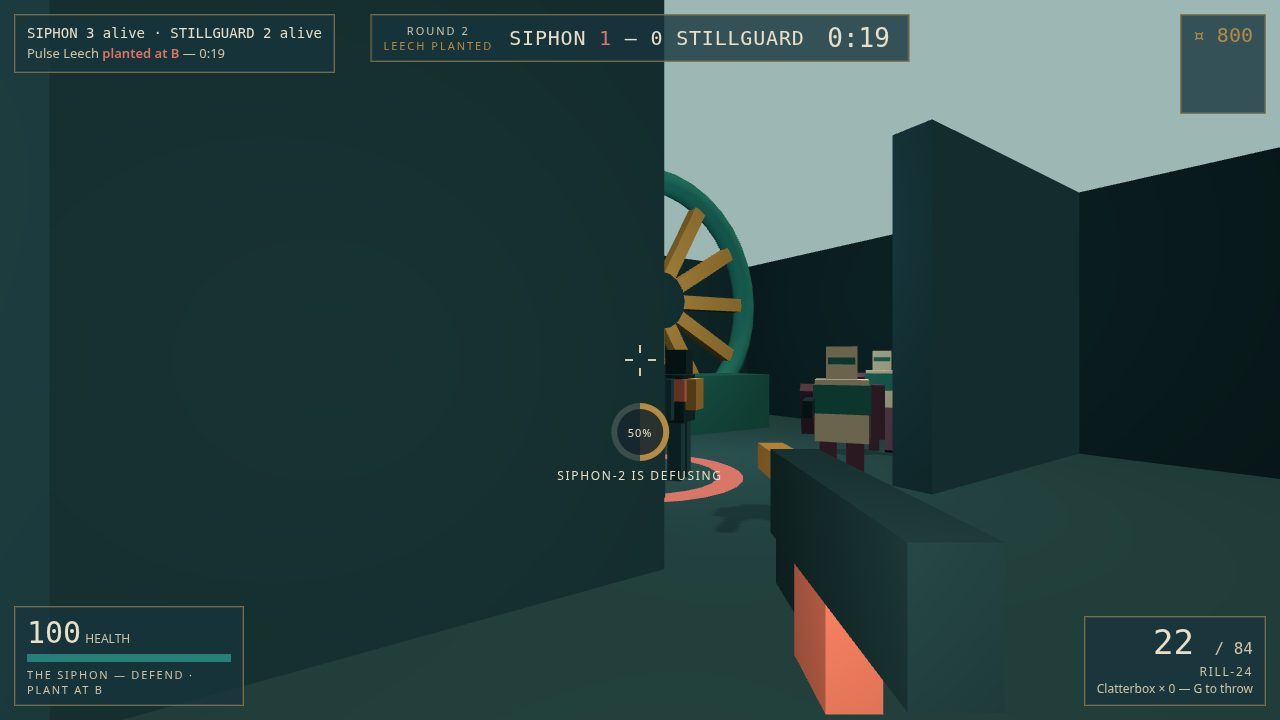
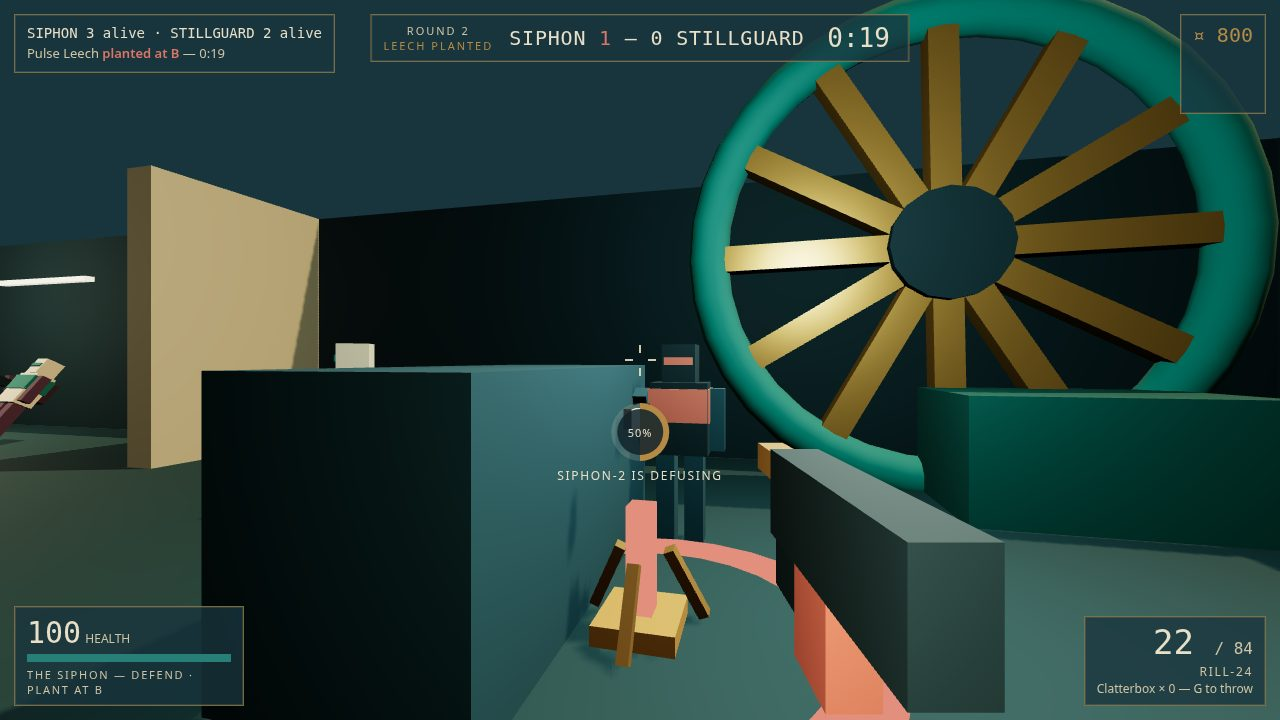
Polish: lit bathhouse mood (ACES, warm practicals, shadows), Pulse Leech visible while planting, restaged plant and retake captures

diff --git a/game/src/main.js b/game/src/main.js
@@ -26,29 +26,39 @@ renderer.setPixelRatio(shot ? 1 : Math.min(window.devicePixelRatio, 1.75));
 renderer.setSize(window.innerWidth, window.innerHeight);
 renderer.shadowMap.enabled = true;
 renderer.shadowMap.type = THREE.PCFSoftShadowMap;
+renderer.toneMapping = THREE.ACESFilmicToneMapping;
+renderer.toneMappingExposure = 1.12;
 document.getElementById('game').appendChild(renderer.domElement);
 
 const scene = new THREE.Scene();
-scene.background = new THREE.Color(0x9db8b4);
-scene.fog = new THREE.Fog(0x9db8b4, 30, 85);
+scene.background = new THREE.Color(PALETTE.petrol);
+scene.fog = new THREE.Fog(PALETTE.petrol, 45, 120);
 const camera = new THREE.PerspectiveCamera(73, window.innerWidth / window.innerHeight, 0.05, 160);
 scene.add(camera);
 const vmLight = new THREE.PointLight(0xfff1cf, 2.6, 4.5, 1.4); // viewmodel fill light
 camera.add(vmLight);
 
-const hemi = new THREE.HemisphereLight(0xfff1cf, 0x27505e, 1.1);
+const hemi = new THREE.HemisphereLight(0xffe9c4, 0x1c3a44, 0.5);
 scene.add(hemi);
-const sun = new THREE.DirectionalLight(0xfff3d0, 1.6);
-sun.position.set(14, 26, 10);
+const sun = new THREE.DirectionalLight(0xffdfae, 2.4);
+sun.position.set(18, 30, -6);
 sun.castShadow = true;
 sun.shadow.mapSize.set(2048, 2048);
-sun.shadow.camera.left = -30; sun.shadow.camera.right = 30;
-sun.shadow.camera.top = 30; sun.shadow.camera.bottom = -30;
-sun.shadow.camera.far = 70;
+sun.shadow.camera.left = -34; sun.shadow.camera.right = 34;
+sun.shadow.camera.top = 34; sun.shadow.camera.bottom = -34;
+sun.shadow.camera.far = 100;
+sun.shadow.bias = -0.0004;
+sun.shadow.normalBias = 0.02;
 scene.add(sun);
-for (const [x, z, c] of [[0, 16, 0xfff1cf], [0, -16, 0xfff1cf], [-17, -15, 0xffd9a0], [18, -15, 0xcfe8dd]]) {
-  const p = new THREE.PointLight(c, 18, 16, 1.6);
-  p.position.set(x, 3.4, z);
+// Practicals: warm pools of light at the vestibule, the office and both sites,
+// plus the chandelier's glow over the basin.
+for (const [x, y, z, c, i, d] of [
+  [0, 3.4, 16, 0xfff1cf, 30, 20], [0, 3.4, -16, 0xfff1cf, 30, 20],
+  [-17, 3.4, -15, 0xffd9a0, 30, 18], [18, 3.4, -15, 0xcfe8dd, 30, 18],
+  [0, 5.2, -1, 0xffd9a0, 26, 18],
+]) {
+  const p = new THREE.PointLight(c, i, d, 1.6);
+  p.position.set(x, y, z);
   scene.add(p);
 }
 
@@ -365,7 +375,7 @@ function stageShot(n) {
     player.groundY = -0.6;
     place(allies[0], -9.2, 1.5, -1.2);
     place(allies[1], -1.8, 0.8, -0.7);
-    place(enemies[0], 5.2, 0.6, 2.6);
+    place(enemies[0], 3.9, 2.4, 2.6);
     place(enemies[1], 5, -10.6, Math.PI);
     place(enemies[2], 17, -6, Math.PI);
     for (let i = 0; i < 30; i++) stepMatch(match, STEP, { boxes, events, input: stillInput });
@@ -379,16 +389,18 @@ function stageShot(n) {
     player.alive = true;
     player.health = 62; // pin the staged state last: in the fight, not fresh, not dead
   } else if (n === '2') {
-    // Plant channel at Site A: the player plants, an ally covers the Cloakroom door.
+    // Plant channel at Site A: the player plants at the socket with the Leech
+    // deploying in frame; an ally covers the office-door approach to the east.
     match.phase = 'live'; match.phaseTime = 58;
     match.planSite = 'A';
     match.device.carrier = player;
     givePrimary(player, 'bastion5', 0.85);
-    place(player, -16.5, -14.3, 0.69);
+    place(player, -18.9, -13.8, -0.7);
+    player.pitch = -0.1;
     player.intent = 'plant';
-    place(allies[0], -13.6, -17.2, 1.9);
+    place(allies[0], -12.9, -16.2, -Math.PI / 2);
     place(allies[1], -9.2, 0, -1.4);
-    place(enemies[0], -13.2, -17.8, -1.8);
+    place(enemies[0], 0, -17, Math.PI);
     place(enemies[1], 5, -10.6, Math.PI);
     place(enemies[2], 17, 3, Math.PI);
     match.channel = { actor: player, kind: 'plant', t: 1.5, need: 3, site: 'A', x: player.pos.x, z: player.pos.z };
@@ -399,7 +411,9 @@ function stageShot(n) {
     events.length = 0;
     player.intent = 'plant';
   } else if (n === '3') {
-    // Defensive retake at Site B, round 2: Leech planted, an ally defuses under cover.
+    // Defensive retake at Site B, round 2: Leech planted, an ally defuses under
+    // cover. The camera stands in the B doorway, clear of the walls, looking
+    // straight at the socket with the turbine wheel behind it.
     match.round = 2;
     match.score.siphon = 1; match.score.still = 0;
     match.phase = 'planted';
@@ -410,11 +424,11 @@ function stageShot(n) {
     match.device.fuse = 18.4;
     match.device.carrier = null;
     givePrimary(player, 'rill24', 0.8);
-    place(player, 12.8, -8.6, -0.56);
-    place(allies[0], 16.9, -14.1, 0.6);
+    place(player, 17.2, -11.6, 0.24);
+    place(allies[0], 16.5, -16.2, Math.PI);
     allies[0].intent = 'defuse';
     place(allies[1], 9.2, -4.5, -0.8);
-    place(enemies[0], 17.5, -11.8, Math.PI + 0.4);
+    place(enemies[0], 13.6, -15.8, Math.PI + 0.4);
     place(enemies[1], 21.5, -13.6, Math.PI);
     enemies[2].alive = false; enemies[2].health = 0;
     match.channel = { actor: allies[0], kind: 'defuse', t: 2.3, need: 5, site: 'B', x: allies[0].pos.x, z: allies[0].pos.z };
@@ -454,7 +468,15 @@ function syncScene(now) {
   }
   // Device: on the carrier's back, on the ground where dropped, or on the socket.
   const d = match.device;
-  if (d.state === 'carried' && d.carrier) {
+  const planting = match.channel?.kind === 'plant' ? match.channel : null;
+  if (planting) {
+    // Mid-plant the Leech is on the socket, opening — not still on the planter's back.
+    const s = SITES[planting.site].socket;
+    deviceMesh.group.position.set(s.x, 0, s.z);
+    deviceMesh.group.rotation.y = 0;
+    deviceMesh.setPlanted(0.3 + 0.7 * (planting.t / planting.need));
+    deviceMesh.group.visible = true;
+  } else if (d.state === 'carried' && d.carrier) {
     const c = d.carrier;
     deviceMesh.group.position.set(c.pos.x + Math.sin(c.yaw) * 0.3, c.groundY + 1.15, c.pos.z + Math.cos(c.yaw) * 0.3);
     deviceMesh.group.rotation.y = c.yaw;

diff --git a/game/src/map.js b/game/src/map.js
@@ -234,12 +234,16 @@ export function circleBlocked(boxes, x, z, radius, feetY, height) {
   return false;
 }
 
+const METALS = new Set([PALETTE.brass, PALETTE.brassDark, PALETTE.copper]);
 const MAT_CACHE = new Map();
 function material(colour, emissive = 0) {
   const key = colour * 1000 + emissive;
   if (!MAT_CACHE.has(key)) {
-    MAT_CACHE.set(key, new THREE.MeshLambertMaterial({
+    const metal = METALS.has(colour);
+    MAT_CACHE.set(key, new THREE.MeshStandardMaterial({
       color: colour,
+      roughness: metal ? 0.38 : 0.88,
+      metalness: metal ? 0.55 : 0.03,
       emissive: emissive ? colour : 0x000000,
       emissiveIntensity: emissive ? 0.9 : 0,
     }));
@@ -259,7 +263,7 @@ export function buildMap(scene) {
   for (const b of boxes) {
     const mesh = new THREE.Mesh(geoFor(b.w, b.h, b.d), material(PALETTE[b.mat] ?? b.mat));
     mesh.position.set(b.x, b.y0 + b.h / 2, b.z);
-    mesh.castShadow = false;
+    mesh.castShadow = true;
     mesh.receiveShadow = true;
     group.add(mesh);
   }
@@ -312,14 +316,16 @@ export function buildMap(scene) {
   // Site B turbine: a six-metre wheel that turns slowly behind the socket.
   const turbine = new THREE.Group();
   const ring = new THREE.Mesh(new THREE.TorusGeometry(3, 0.28, 10, 36), material(PALETTE.jade));
+  ring.castShadow = true;
   turbine.add(ring);
   for (let i = 0; i < 6; i++) {
     const bar = new THREE.Mesh(geoFor(0.35, 5.6, 0.3), material(PALETTE.brass));
     bar.rotation.z = (i / 6) * Math.PI;
+    bar.castShadow = true;
     turbine.add(bar);
   }
   const hub = new THREE.Mesh(new THREE.CylinderGeometry(0.7, 0.7, 0.6, 16), material(PALETTE.petrol));
-  hub.rotation.x = Math.PI / 2; turbine.add(hub);
+  hub.rotation.x = Math.PI / 2; hub.castShadow = true; turbine.add(hub);
   turbine.position.set(19.5, 3.1, -18.6);
   group.add(turbine);
   boxes.push(B(19.5, -18.6, 6.4, 0.8, 0, 6.2, 'petrol'));

diff --git a/game/src/figures.js b/game/src/figures.js
@@ -5,7 +5,7 @@
 import * as THREE from 'three';
 import { PALETTE } from './palette.js';
 
-const mat = (colour) => new THREE.MeshLambertMaterial({ color: colour });
+const mat = (colour) => new THREE.MeshStandardMaterial({ color: colour, roughness: 0.82, metalness: 0.04 });
 const box = (w, h, d, colour, x, y, z) => {
   const m = new THREE.Mesh(new THREE.BoxGeometry(w, h, d), mat(colour));
   m.position.set(x, y, z);
